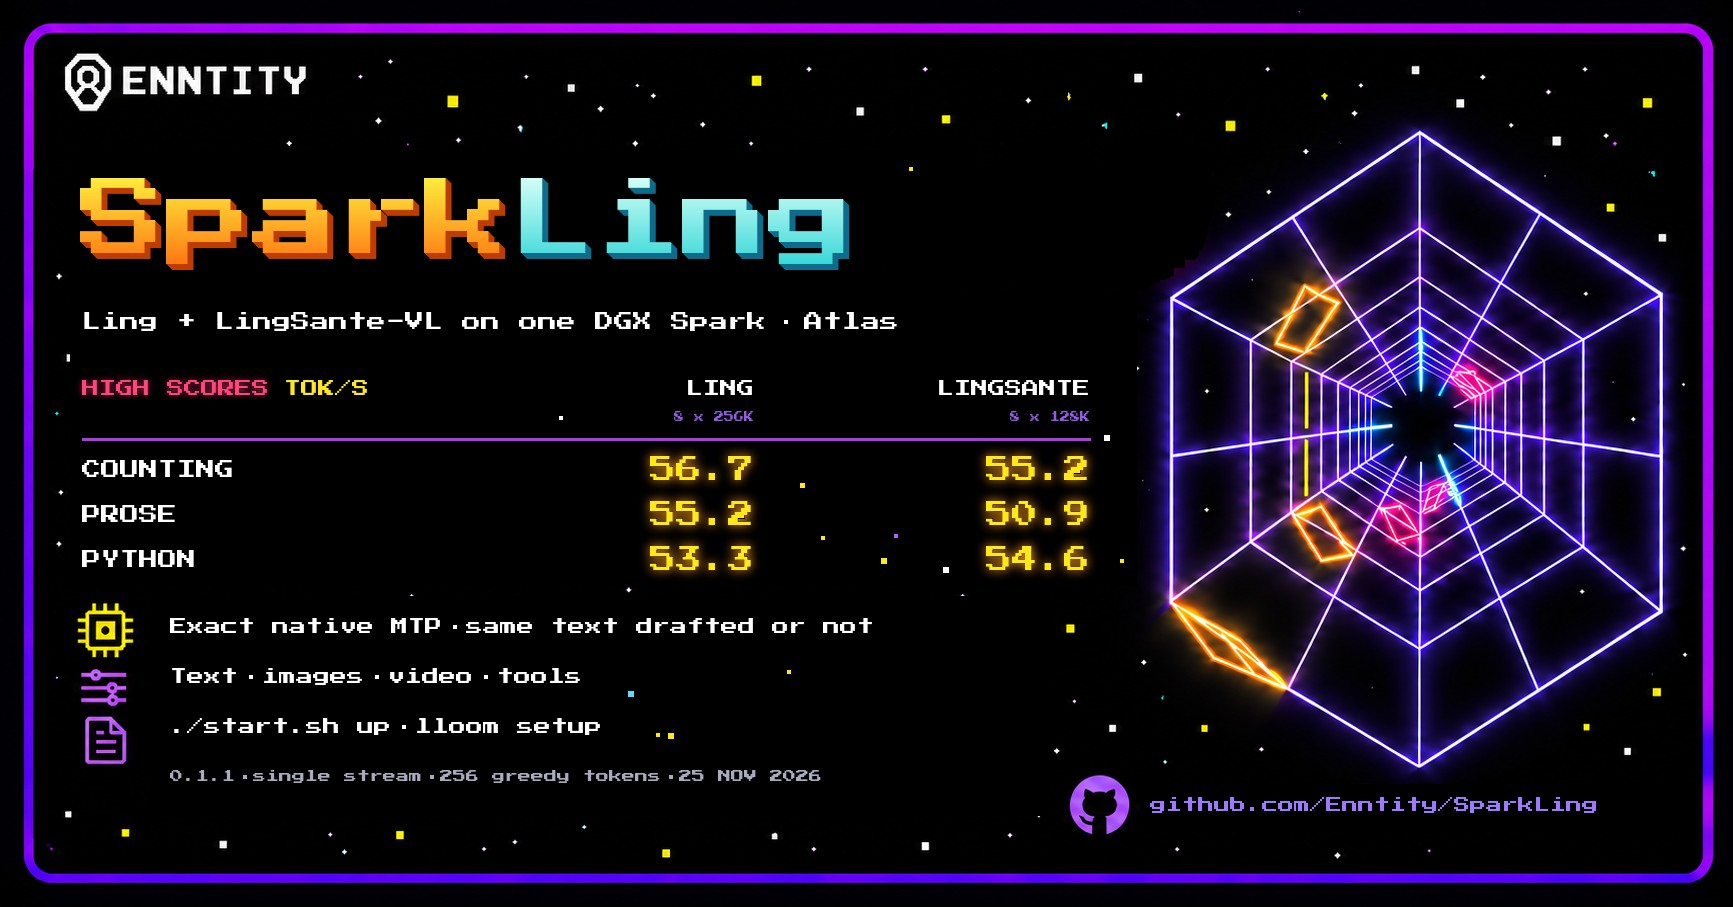
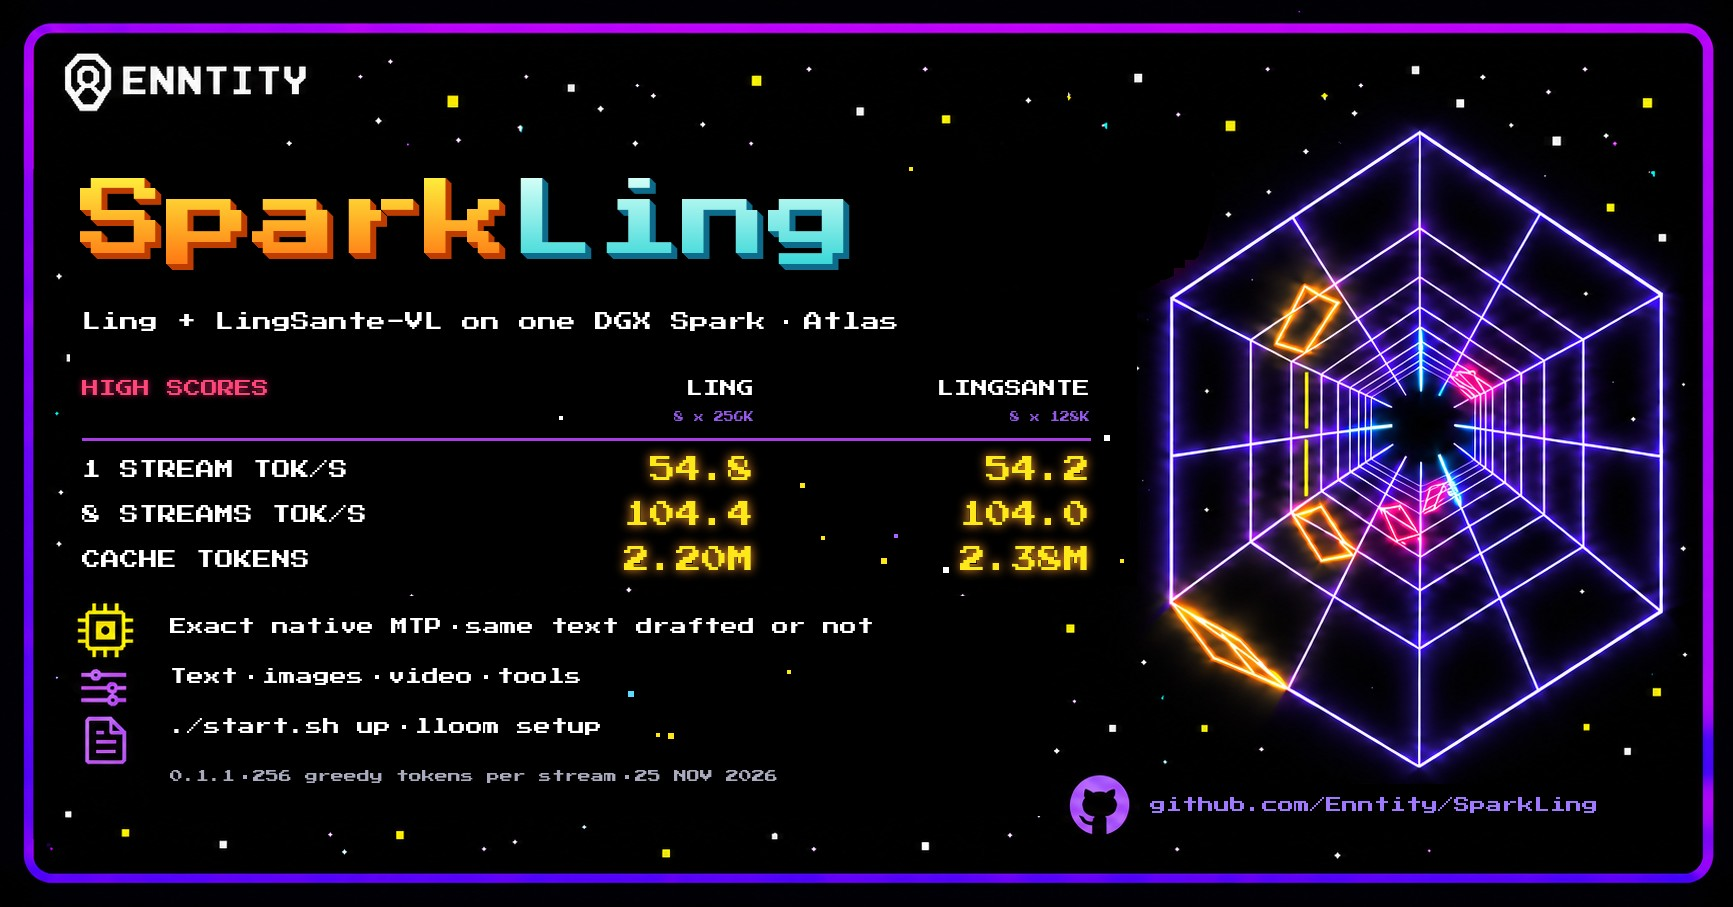
Cards: show what 0.1.1 changed
The rows showed counting, prose and Python single-stream rates, which
barely moved from 0.1.0, so the card read as the old release. They now
show one-stream decode (mean of the eight probe prompts, 54.8 / 54.2),
eight concurrent streams (104.4 / 104.0) and the shared KV cache (2.20M /
2.38M tokens; 0.1.0 held 56K). make_cards.py reads all three from the
0.1.1 release files.

diff --git a/docs/assets/make_cards.py b/docs/assets/make_cards.py
@@ -14,6 +14,7 @@ make_cards.py. Needs Pillow. The JPEG is a format export of the social card.
 """
 import json
 import random
+import re
 import sys
 from pathlib import Path
 
@@ -130,34 +131,34 @@ class Card:
 
 PINK = (255, 70, 120)
 def scores(card, x0, y, k, ky, data):
-    """Show packaged single-stream decode rates for both models."""
+    """Show the 0.1.1 release's one-stream and eight-stream decode and its shared cache for both models."""
     head, small, label, num = int(21 * k), int(13 * k), int(23 * k), int(31 * k)
     cols = [("LING", "8 x 256K", x0 + int(800 * k)),
             ("LINGSANTE", "8 x 128K", x0 + int(1200 * k))]
-    workloads = [("COUNTING", "count"), ("PROSE", "prose"), ("PYTHON", "code")]
+    workloads = [("1 STREAM TOK/S", "one", "{:.1f}"), ("8 STREAMS TOK/S", "eight", "{:.1f}"),
+                 ("CACHE TOKENS", "cache", "{:.2f}M")]
 
     def right(xr, yy, s, size, color, glow=None):
         card.text((xr - int(card.font(size).getlength(s)), yy), [s], size, color, glow=glow)
 
-    end = card.text((x0, y), ["HIGH SCORES"], head, PINK, glow=(150, 20, 70))
-    card.text((end + int(18 * k), y), ["TOK/S"], head, YELLOW)
+    card.text((x0, y), ["HIGH SCORES"], head, PINK, glow=(150, 20, 70))
     for name, cmd, xr in cols:
         right(xr, y, name, head, WHITE)
         right(xr, y + int(30 * ky), cmd, small, VIOLET)
     line = y + int(54 * ky)
     card.draw.rectangle((x0, line, cols[-1][2], line + 2), fill=(170, 60, 230))
     card.inked.append((x0, line, cols[-1][2], line + 2))
-    for row, (name, probe) in enumerate(workloads):
+    for row, (name, key, form) in enumerate(workloads):
         yy = y + int(72 * ky) + row * int(42 * ky)
         card.text((x0, yy + (num - label) // 2), [name], label, WHITE)
         for rates, (_, _, xr) in zip(data, cols):
-            right(xr, yy, f"{rates[probe]:.1f}", num, YELLOW, glow=ORANGE)
+            right(xr, yy, form.format(rates[key]), num, YELLOW, glow=ORANGE)
 
 
 LINES = (["Exact native MTP", "same text drafted or not"],
          ["Text", "images", "video", "tools"],
          ["./start.sh up", "lloom setup"])
-SOURCE = ["0.1.1", "single stream", "256 greedy tokens", "25 NOV 2026"]
+SOURCE = ["0.1.1", "256 greedy tokens per stream", "25 NOV 2026"]
 URL = "github.com/Enntity/SparkLing"
 
 
@@ -206,8 +207,14 @@ if __name__ == "__main__":
     base, font, out = Path(sys.argv[1]), sys.argv[2], Path(sys.argv[3])
     results = Path(__file__).resolve().parents[2] / "results/2026-11-25-0.1.1/release"
     data = []
-    for filename in ("ling-spark-probe.jsonl", "sante-spark-probe.jsonl"):
-        records = map(json.loads, (results / filename).read_text().splitlines())
-        data.append({row["probe"]: row["tok_s"] for row in records})
+    for model in ("ling", "sante"):
+        rows = lambda name: [json.loads(l) for l in (results / f"{model}-spark-{name}.jsonl").read_text().splitlines()]
+        probes = rows("probe")
+        kv = re.search(r"= (\d+) max KV tokens", (results / f"{model}-spark-server-kv.log").read_text())
+        data.append({
+            "one": sum(r["tok_s"] for r in probes) / len(probes),  # mean of the eight probe prompts
+            "eight": next(r["aggregate_tok_s"] for r in rows("conc") if r["clients"] == 8),
+            "cache": int(kv.group(1)) / 1e6,
+        })
     banner(base / "banner.png", font, out / "banner.png", data)
     social(base / "social-preview.png", font, out / "social-preview.png", data)

diff --git a/docs/assets/README.md b/docs/assets/README.md
@@ -1,6 +1,6 @@
 # SparkLing cards
 
-The README banner and social preview use the SparkQwen arcade frame and SparkInkling’s Press Start 2P layout. The three rows show counting, prose and Python decode speeds of the published 0.1.1 image in its default setup: Ling-3.2-air with native drafting and LingSante-3.1-air-VL with Ling's borrowed drafter, one stream each on one DGX Spark. [Release receipts](../../results/2026-11-25-0.1.1/release)
+The README banner and social preview use the SparkQwen arcade frame and SparkInkling’s Press Start 2P layout. The three rows come from the published 0.1.1 image in its default setup on one DGX Spark, Ling-3.2-air with native drafting and LingSante-3.1-air-VL with Ling's borrowed drafter: one-stream decode as the mean of the eight probe prompts, the aggregate rate of eight concurrent streams, and the shared KV cache size from the server log. [Release receipts](../../results/2026-11-25-0.1.1/release)
 
 To render both cards, install Pillow, obtain the Press Start 2P font (SIL Open Font License 1.1) and use the two base PNGs from [SparkQwen at bd26c6d](https://github.com/Enntity/sparkqwen/tree/bd26c6d/docs/assets). From the SparkLing repo root, run:
 

diff --git a/README.md b/README.md
@@ -1,6 +1,6 @@
 <!-- SPDX-License-Identifier: AGPL-3.0-only -->
 <p align="center">
-  <img src="docs/assets/banner.png" alt="SparkLing 0.1.1 on one DGX Spark, single-stream decode with exact native drafting at eight full context windows. Counting, prose and Python: Ling-3.2-air 56.7, 55.2 and 53.3 tokens/s; LingSante-3.1-air-VL 55.2, 50.9 and 54.6 tokens/s." width="100%">
+  <img src="docs/assets/banner.png" alt="SparkLing 0.1.1 on one DGX Spark at eight full context windows. One stream with exact native drafting, mean of eight prompts: Ling-3.2-air 54.8 and LingSante-3.1-air-VL 54.2 tokens/s. Eight streams together: 104.4 and 104.0 tokens/s. Shared cache: 2.20 and 2.38 million tokens." width="100%">
 </p>
 
 # SparkLing
